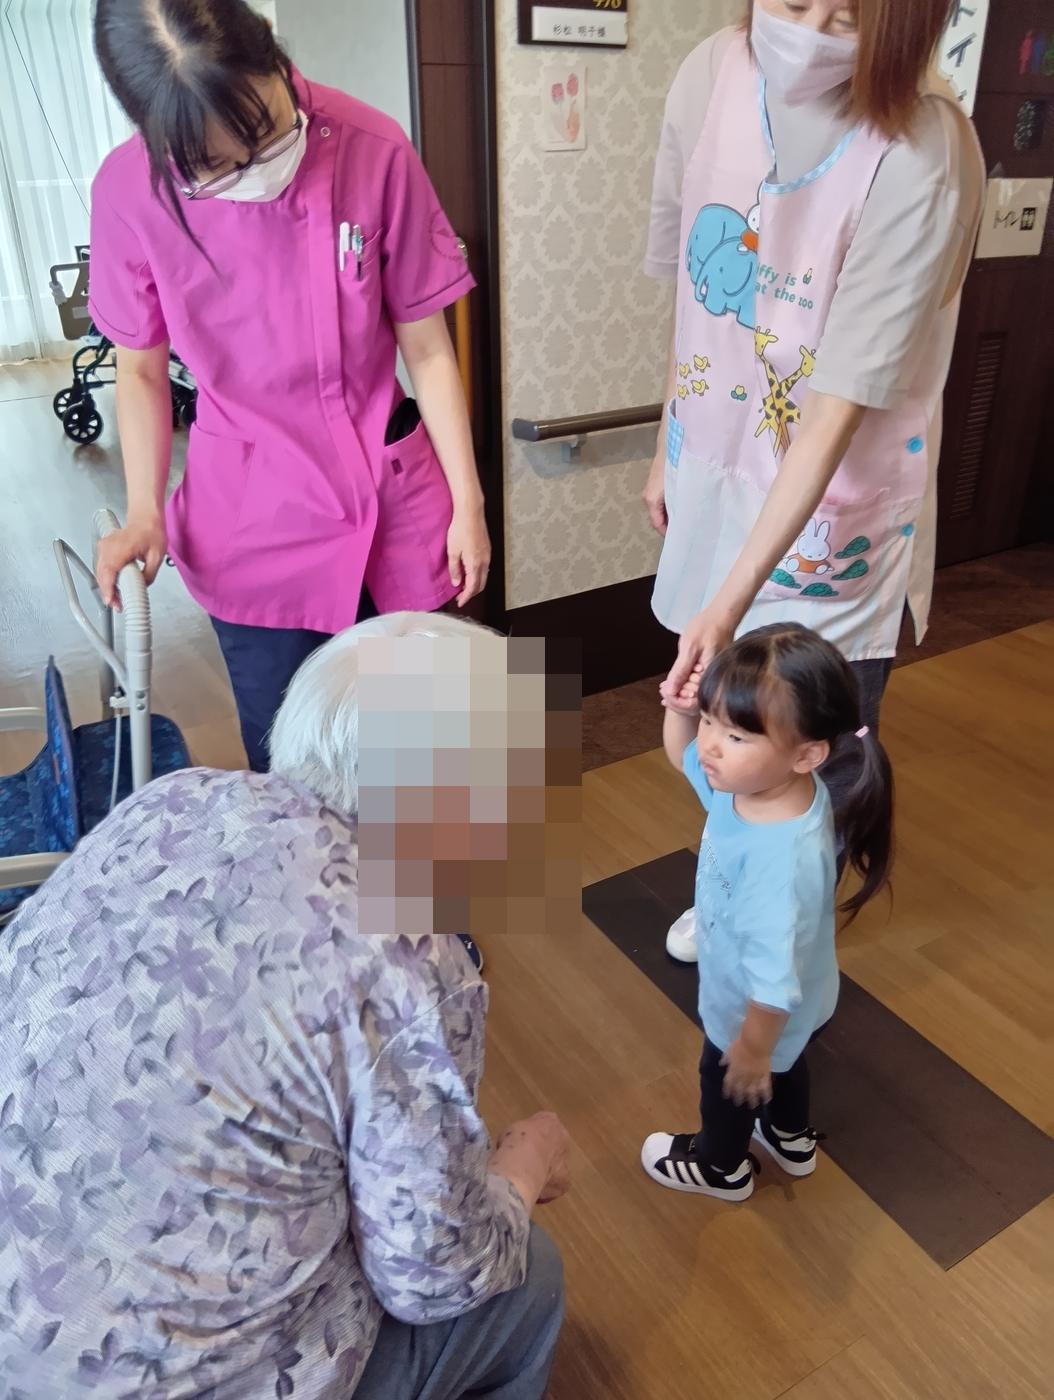
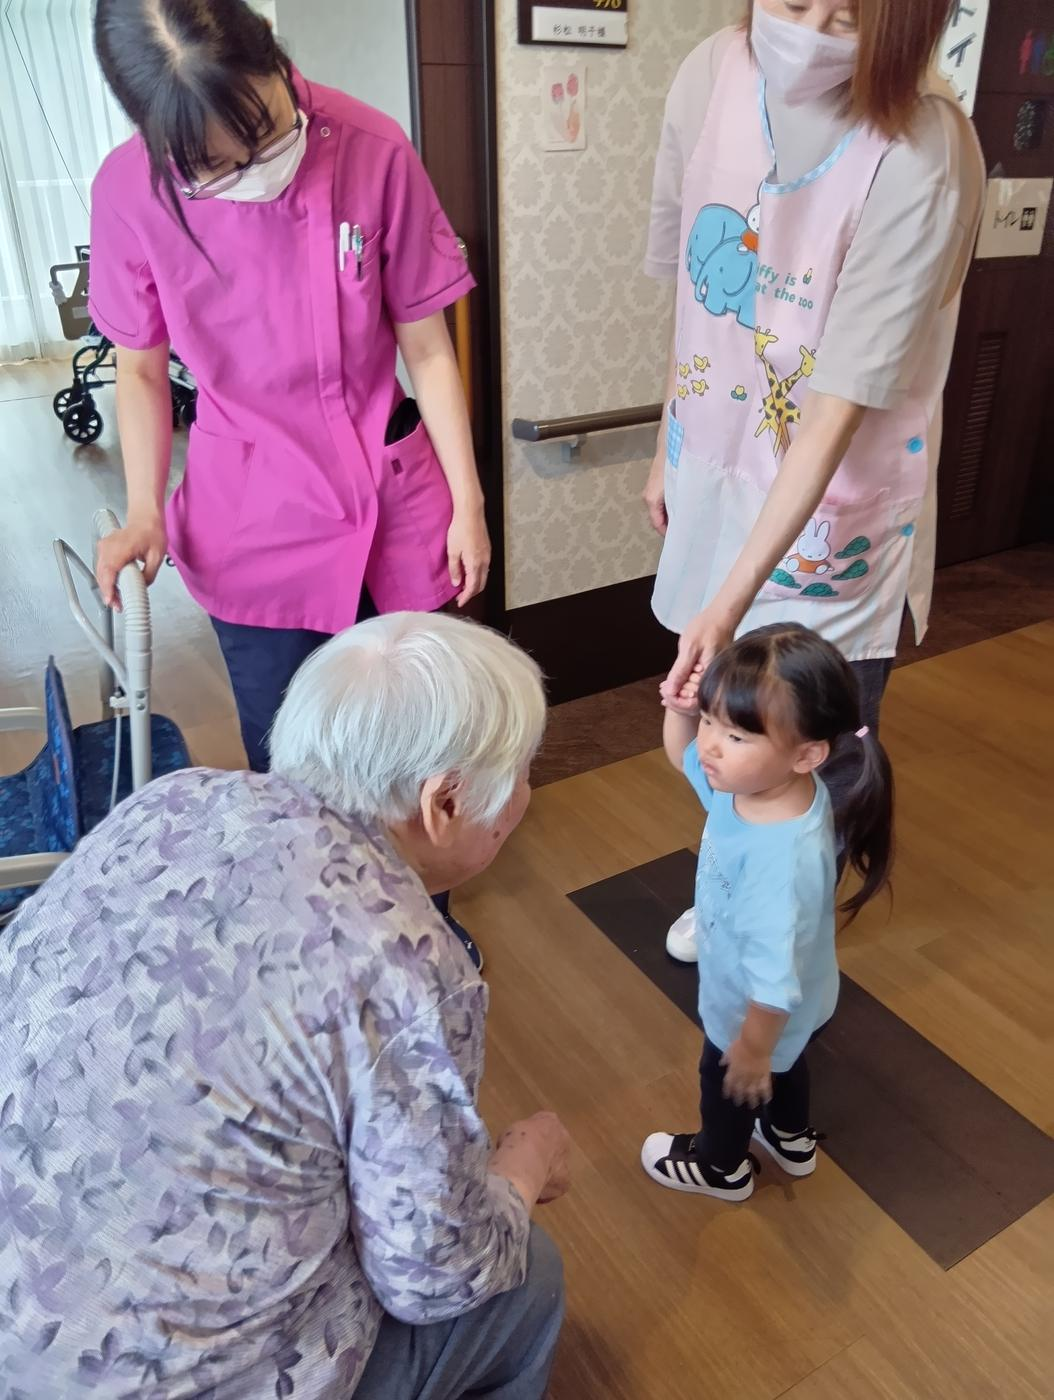
Add files via upload

Changed region(s): [[0.334, 0.43, 0.5465, 0.6757]]

diff --git a/index.html b/index.html
@@ -12,7 +12,7 @@
 <link rel="preconnect" href="https://fonts.gstatic.com" crossorigin>
 <link href="https://fonts.googleapis.com/css2?family=Zen+Maru+Gothic:wght@500;700&display=swap" rel="stylesheet">
 <link href="https://fonts.googleapis.com/css2?family=Zen+Kurenaido&display=swap&text=%E3%80%81%E3%80%82%E3%81%86%E3%81%8D%E3%81%8F%E3%81%95%E3%81%98%E3%81%A7%E3%81%AA%E3%81%BF%E3%82%82%E3%82%8A%E3%82%B9%E3%83%8A%E3%83%AA%E3%83%BC%E5%9C%92%E5%A4%A7%E5%AF%84%E5%B0%8F%E6%B7%BB" rel="stylesheet">
-<link rel="stylesheet" href="style.css?v=202610301600">
+<link rel="stylesheet" href="style.css?v=202610301609">
 </head>
 <body>
 <!--

diff --git a/about.html b/about.html
@@ -12,7 +12,7 @@
 <link rel="preconnect" href="https://fonts.gstatic.com" crossorigin>
 <link href="https://fonts.googleapis.com/css2?family=Zen+Maru+Gothic:wght@500;700&display=swap" rel="stylesheet">
 <link href="https://fonts.googleapis.com/css2?family=Zen+Kurenaido&display=swap&text=%E3%81%98%E3%81%BF%E3%82%82%E3%82%B9%E3%83%8A%E3%83%AA%E3%83%BC" rel="stylesheet">
-<link rel="stylesheet" href="style.css?v=202610301600">
+<link rel="stylesheet" href="style.css?v=202610301609">
 </head>
 <body>
 <!--

diff --git a/guide.html b/guide.html
@@ -12,7 +12,7 @@
 <link rel="preconnect" href="https://fonts.gstatic.com" crossorigin>
 <link href="https://fonts.googleapis.com/css2?family=Zen+Maru+Gothic:wght@500;700&display=swap" rel="stylesheet">
 <link href="https://fonts.googleapis.com/css2?family=Zen+Kurenaido&display=swap&text=%E3%81%98%E3%81%BF%E3%82%82%E3%82%B9%E3%83%8A%E3%83%AA%E3%83%BC" rel="stylesheet">
-<link rel="stylesheet" href="style.css?v=202610301600">
+<link rel="stylesheet" href="style.css?v=202610301609">
 </head>
 <body>
 <!--

diff --git a/life.html b/life.html
@@ -12,7 +12,7 @@
 <link rel="preconnect" href="https://fonts.gstatic.com" crossorigin>
 <link href="https://fonts.googleapis.com/css2?family=Zen+Maru+Gothic:wght@500;700&display=swap" rel="stylesheet">
 <link href="https://fonts.googleapis.com/css2?family=Zen+Kurenaido&display=swap&text=%E3%81%98%E3%81%BF%E3%82%82%E3%82%B9%E3%83%8A%E3%83%AA%E3%83%BC" rel="stylesheet">
-<link rel="stylesheet" href="style.css?v=202610301600">
+<link rel="stylesheet" href="style.css?v=202610301609">
 </head>
 <body>
 <!--

diff --git a/news.html b/news.html
@@ -12,7 +12,7 @@
 <link rel="preconnect" href="https://fonts.gstatic.com" crossorigin>
 <link href="https://fonts.googleapis.com/css2?family=Zen+Maru+Gothic:wght@500;700&display=swap" rel="stylesheet">
 <link href="https://fonts.googleapis.com/css2?family=Zen+Kurenaido&display=swap&text=%E3%81%98%E3%81%BF%E3%82%82%E3%82%B9%E3%83%8A%E3%83%AA%E3%83%BC" rel="stylesheet">
-<link rel="stylesheet" href="style.css?v=202610301600">
+<link rel="stylesheet" href="style.css?v=202610301609">
 </head>
 <body>
 <!--
